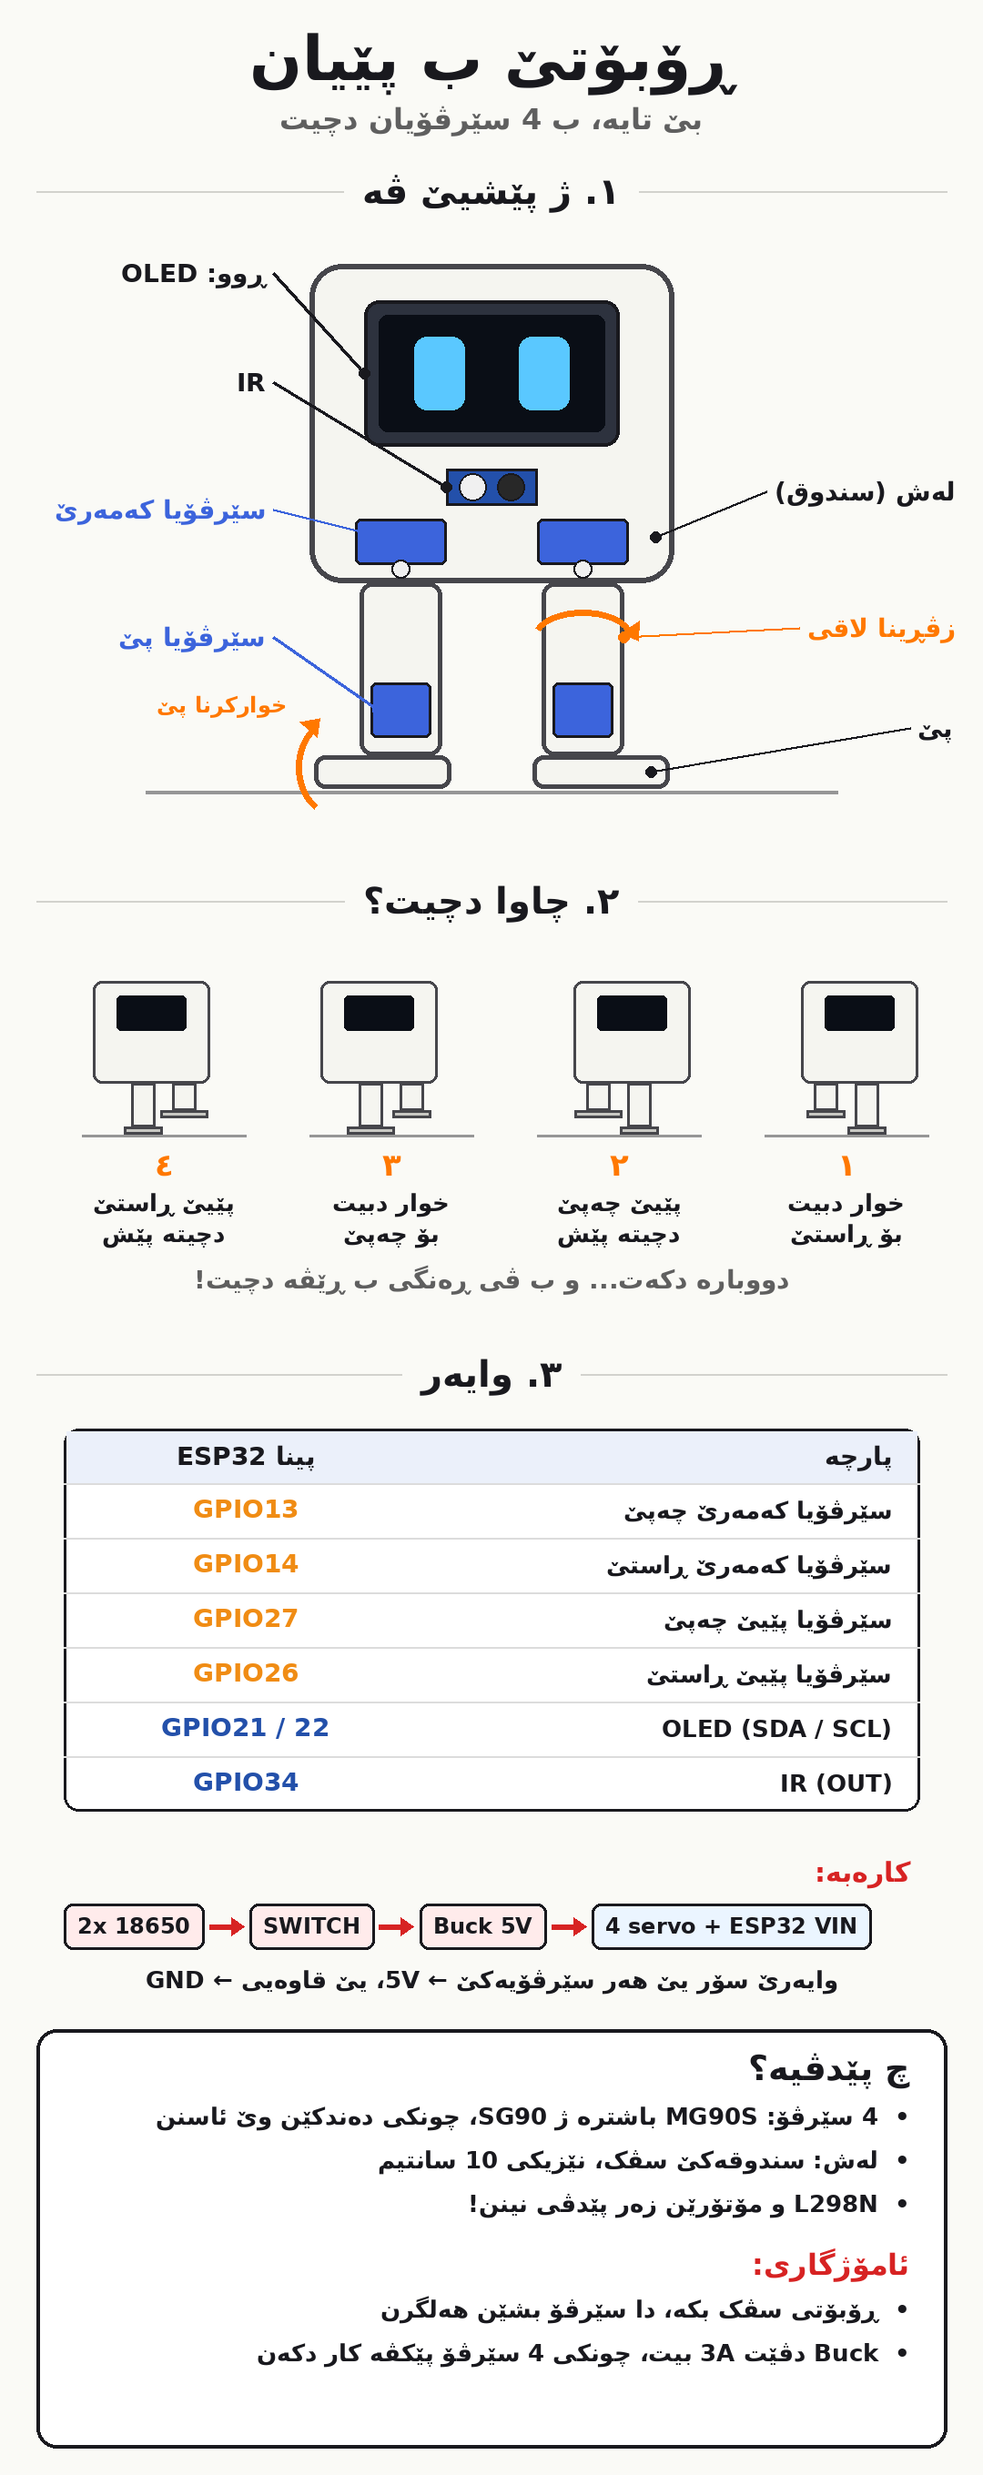
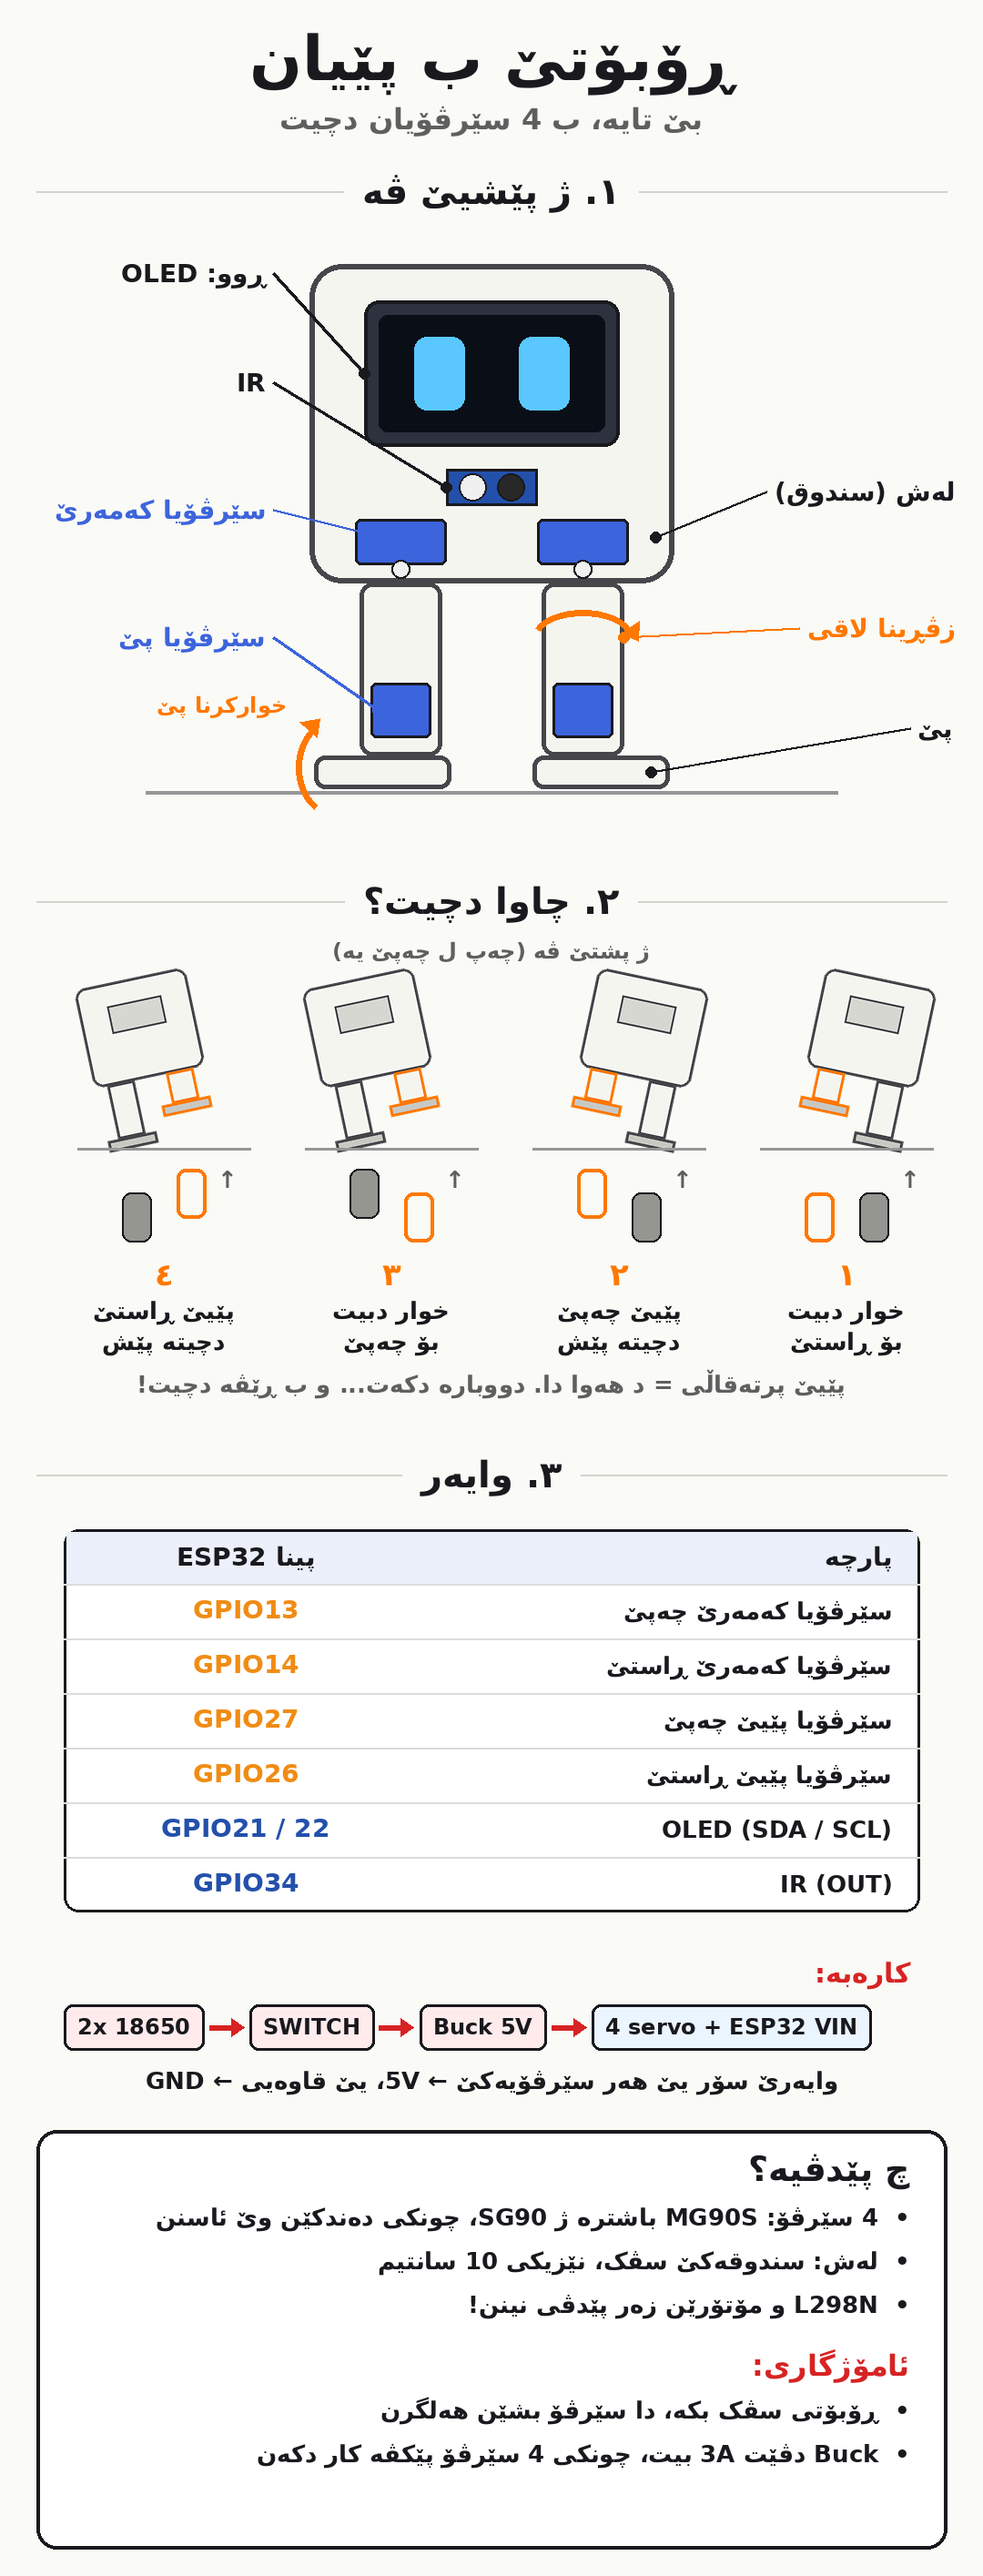
Make the walking steps clearer: back view, real lean, footprints
The small frames are now seen from behind (so left is left), the body
visibly leans over the standing foot, the lifted foot is orange, and
footprints from above show which foot is ahead.

Claude-Session: https://claude.ai/code/session_01RdvTpuJ5TFFoVyr3yWNW6y

diff --git a/tools/draw_walker.py b/tools/draw_walker.py
@@ -9,7 +9,7 @@ from pathlib import Path
 from PIL import Image, ImageDraw, ImageFont
 
 OUT = Path(__file__).resolve().parent.parent / "images" / "robot_walker.png"
-W, H = 1080, 2720
+W, H = 1080, 2830
 BG = (250, 250, 246)
 INK = (25, 25, 30)
 GREY = (95, 95, 95)
@@ -148,41 +148,65 @@ WY0 = 960
 section_title(WY0, "٢. چاوا دچیت؟")
 
 
-def mini(cx, cy, tilt, step):
-    """Tiny front view. tilt: -1 lean left / 0 / 1 lean right. step: which foot is forward (drawn larger)."""
-    s = 0.32
-    off = tilt * 14
-    d.rounded_rectangle([cx - 200 * s + off, cy - 350 * s, cx + 200 * s + off, cy], radius=10,
-                        fill=SHELL, outline=SHELL_EDGE, width=3)
-    d.rounded_rectangle([cx - 120 * s + off, cy - 300 * s, cx + 120 * s + off, cy - 180 * s], radius=5, fill=(10, 14, 22))
-    for k, lx in enumerate((cx - 110 * s, cx + 30 * s)):
-        lift = 18 if (tilt == 1 and k == 0) or (tilt == -1 and k == 1) else 0
-        grow = 1.25 if step == k else 1.0
-        d.rectangle([lx, cy, lx + 80 * s, cy + 150 * s - lift], fill=SHELL, outline=SHELL_EDGE, width=3)
-        fw = 130 * s * grow
-        d.rectangle([lx + 40 * s - fw / 2, cy + 150 * s - lift, lx + 40 * s + fw / 2, cy + 175 * s - lift],
-                    fill=(200, 200, 195), outline=SHELL_EDGE, width=3)
-    d.line([(cx - 90, cy + 175 * s + 2), (cx + 90, cy + 175 * s + 2)], fill=(150, 150, 150), width=3)
+def mini(cx, ground_y, lean):
+    """Tiny BACK view (so the robot's left is on the left). lean: 'right' or 'left'.
+
+    The robot leans over the standing foot; the other foot is lifted (orange).
+    """
+    LW, LH = 220, 230
+    layer = Image.new("RGBA", (LW, LH), (0, 0, 0, 0))
+    ld = ImageDraw.Draw(layer)
+    bx = LW / 2
+    ld.rounded_rectangle([bx - 62, 20, bx + 62, 130], radius=12, fill=SHELL, outline=SHELL_EDGE, width=3)
+    ld.rectangle([bx - 30, 45, bx + 30, 75], fill=(215, 215, 210), outline=SHELL_EDGE, width=2)   # back panel
+    for side in ("left", "right"):
+        lx = bx - 48 if side == "left" else bx + 18
+        lifted = side != lean
+        lift = 26 if lifted else 0
+        color = ARROW if lifted else SHELL_EDGE
+        ld.rectangle([lx, 130, lx + 30, 190 - lift], fill=SHELL, outline=color, width=3)
+        ld.rectangle([lx - 12, 190 - lift, lx + 42, 202 - lift], fill=(200, 200, 195), outline=color, width=3)
+    # rotate around the standing foot
+    pivot_x = bx + 33 if lean == "right" else bx - 33
+    angle = -12 if lean == "right" else 12
+    layer = layer.rotate(angle, center=(pivot_x, 202), resample=Image.BICUBIC)
+    img.paste(layer, (int(cx - LW / 2), int(ground_y - 202)), layer)
+    d.line([(cx - 95, ground_y + 2), (cx + 95, ground_y + 2)], fill=(150, 150, 150), width=3)
 
 
+def footprints(cx, y, ahead, lifted):
+    """Top view of both feet. ahead: which foot is in front. lifted: which foot is in the air."""
+    for side in ("left", "right"):
+        fx = cx - 46 if side == "left" else cx + 14
+        fy = y - 26 if side == ahead else y
+        if side == lifted:
+            d.rounded_rectangle([fx, fy, fx + 32, fy + 54], radius=10, outline=ARROW, width=4)
+        else:
+            d.rounded_rectangle([fx, fy, fx + 32, fy + 54], radius=10, fill=(150, 150, 145), outline=INK, width=2)
+    en(cx + 70, y - 30, "↑", 26, GREY)
+
+
+# (lean, foot ahead, lifted foot, number, caption)
 frames = [
-    (1, None, "١", ("خوار دبیت", "بۆ ڕاستێ")),
-    (1, 0, "٢", ("پێیێ چەپێ", "دچیتە پێش")),
-    (-1, 0, "٣", ("خوار دبیت", "بۆ چەپێ")),
-    (-1, 1, "٤", ("پێیێ ڕاستێ", "دچیتە پێش")),
+    ("right", None, "left", "١", ("خوار دبیت", "بۆ ڕاستێ")),
+    ("right", "left", "left", "٢", ("پێیێ چەپێ", "دچیتە پێش")),
+    ("left", "left", "right", "٣", ("خوار دبیت", "بۆ چەپێ")),
+    ("left", "right", "right", "٤", ("پێیێ ڕاستێ", "دچیتە پێش")),
 ]
-for k, (tilt, step, num, lines) in enumerate(frames):
+ku(W / 2, WY0 + 70, "ژ پشتێ ڤە (چەپ ل چەپێ یە)", 24, GREY)
+for k, (lean, ahead, lifted, num, lines) in enumerate(frames):
     cx = W - 150 - k * 250
-    mini(cx, WY0 + 230, tilt, step)
-    en(cx, WY0 + 300, num, 34, ARROW)
+    mini(cx, WY0 + 300, lean)
+    footprints(cx, WY0 + 350, ahead, lifted)
+    en(cx, WY0 + 420, num, 34, ARROW)
     for j, t in enumerate(lines):
-        ku(cx, WY0 + 346 + j * 34, t, 26, INK)
-ku(W / 2, WY0 + 430, "دووبارە دکەت... و ب ڤی ڕەنگی ب ڕێڤە دچیت!", 28, GREY)
+        ku(cx, WY0 + 464 + j * 34, t, 26, INK)
+ku(W / 2, WY0 + 545, "پێیێ پرتەقاڵی = د هەوا دا. دووبارە دکەت... و ب ڕێڤە دچیت!", 26, GREY)
 
 # =====================================================================
 # 3) Wiring
 # =====================================================================
-WR0 = 1480
+WR0 = 1590
 section_title(WR0, "٣. وایەر")
 
 rows = [
@@ -230,7 +254,7 @@ ku(W / 2, py + 120, "وایەرێ سۆر یێ هەر سێرڤۆیەکێ ← 5V،
 # =====================================================================
 # 4) Parts + tips
 # =====================================================================
-PY0 = 2230
+PY0 = 2340
 d.rounded_rectangle([40, PY0, W - 40, H - 30], radius=22, fill=(255, 255, 255), outline=INK, width=4)
 ku(W - 80, PY0 + 20, "چ پێدڤیە؟", 38, INK, anchor="ra")
 items = [
